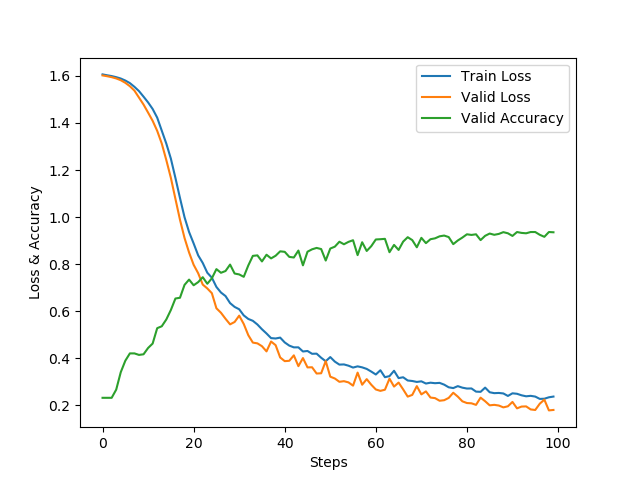
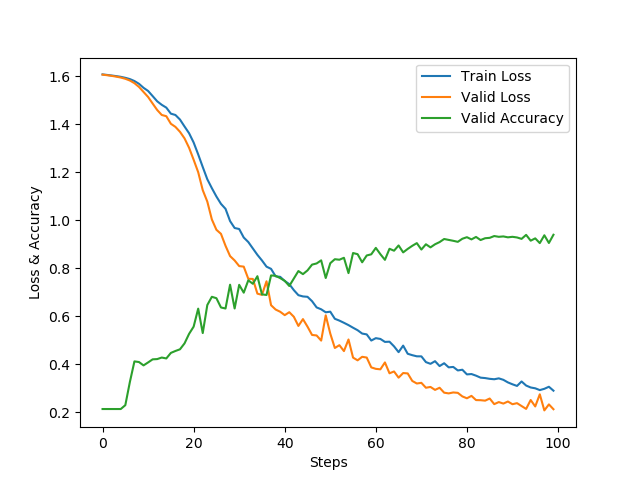
update

diff --git a/action_recog_6axis/re_cnn/re_cnn_train_action.py b/action_recog_6axis/re_cnn/re_cnn_train_action.py
@@ -58,7 +58,7 @@ class Cnn_train():
         dataloaders = {'train': self.action_train_data_gen, 'valid': self.action_valid_data_gen}
 
         # 构建模型:损失函数和优化模型
-        num_epochs = 100
+        num_epochs = 500
         criterion = nn.CrossEntropyLoss()  # criterion:惩罚规则-- 损失函数
         optimizer_ft = optim.SGD(model_ft.parameters(), lr=0.001, momentum=0.9, weight_decay=0.01)
         exp_lr_scheduler = optim.lr_scheduler.StepLR(optimizer_ft, step_size=7, gamma=0.1)
@@ -129,8 +129,8 @@ class Cnn_train():
                     best_acc = epoch_acc
                     best_model_wts = model_ft.state_dict()
 
-                # if phase == 'train':
-                #     exp_lr_scheduler.step()
+                if phase == 'train':
+                    exp_lr_scheduler.step()
 
         time_elapsed = time.time() - since
         print('-' * 30)

diff --git a/action_recog_6axis/re_cnn/re_cnn_nn.py b/action_recog_6axis/re_cnn/re_cnn_nn.py
@@ -42,8 +42,8 @@ class Action_Net_CNN(nn.Module):
         self.layer2 = nn.ReLU()
         # 分类线性层
         self.layer3 = nn.Linear(1020, 5)
-        # self.layer4 = nn.ReLU()
-        # self.layer5 = nn.Linear(200, 5)
+        self.layer4 = nn.ReLU()
+        self.layer5 = nn.Linear(200, 5)
 
     def forward(self, x):
         x = self.conv1(x)
@@ -54,8 +54,8 @@ class Action_Net_CNN(nn.Module):
         x = self.layer1(x)
         x = self.layer2(x)
         x = self.layer3(x)
-        # x = self.layer4(x)
-        # x = self.layer5(x)
+        x = self.layer4(x)
+        x = self.layer5(x)
 
         out = F.log_softmax(x, dim=1)
         return out
